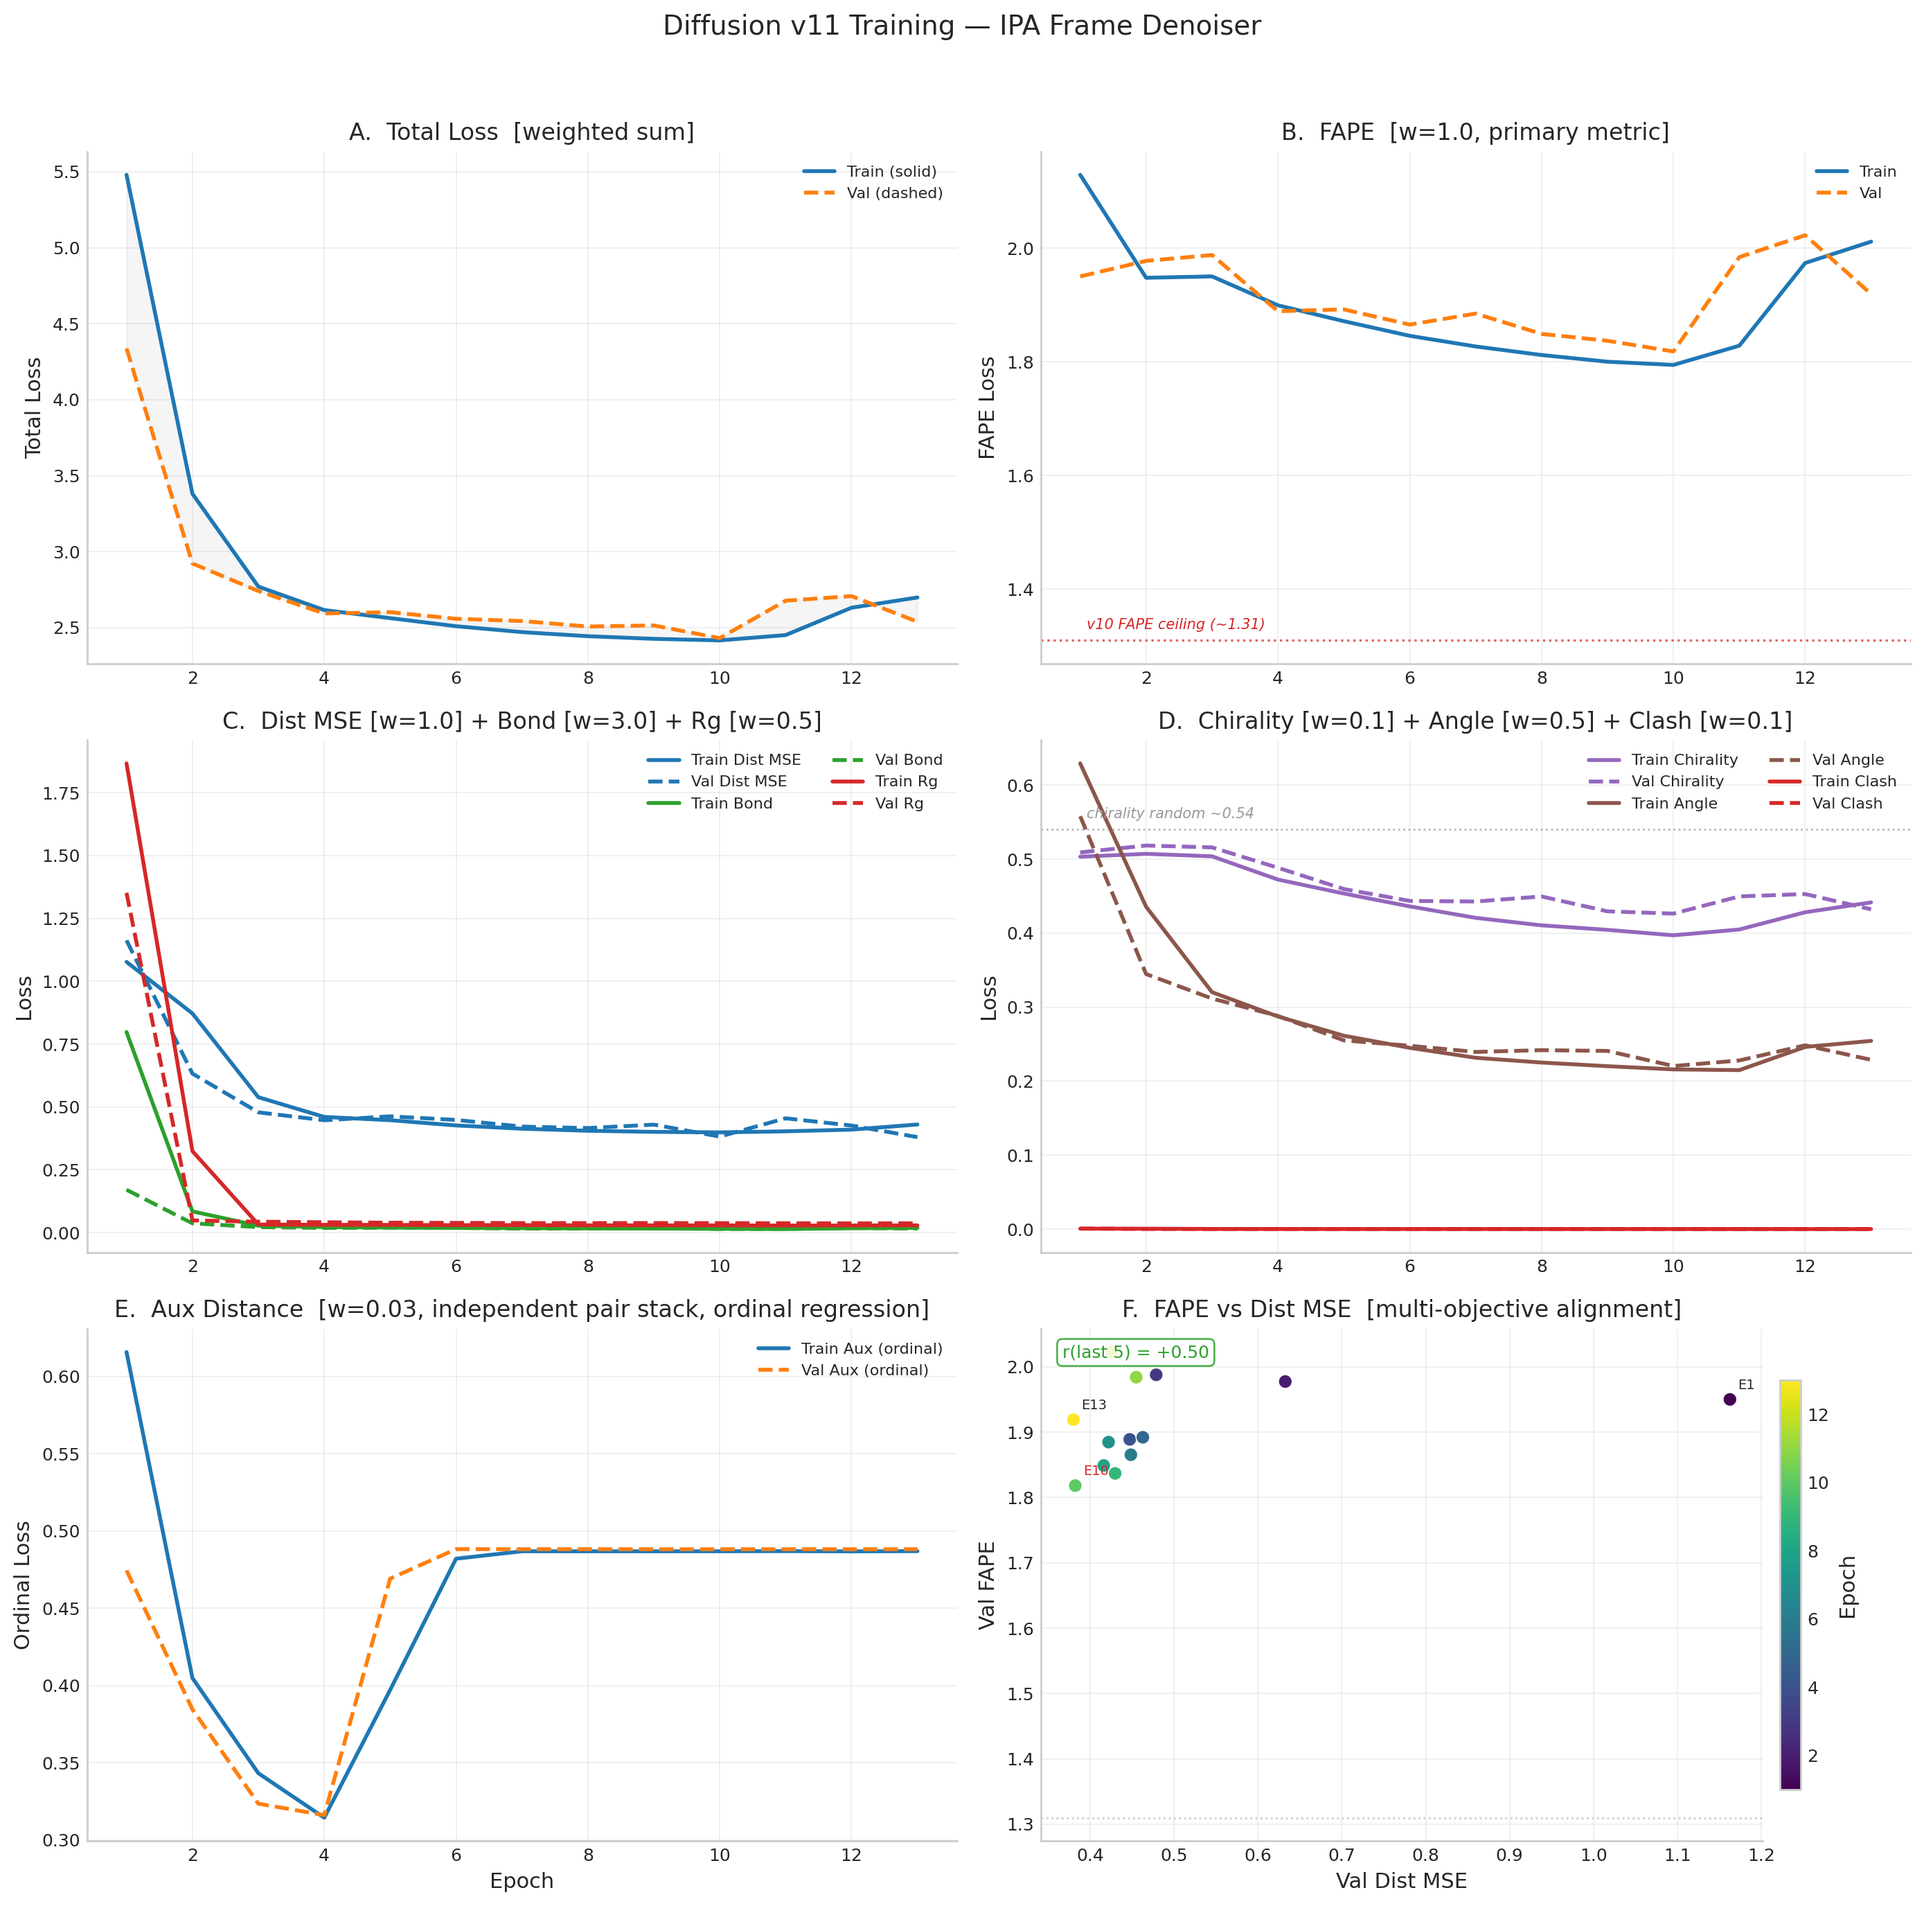
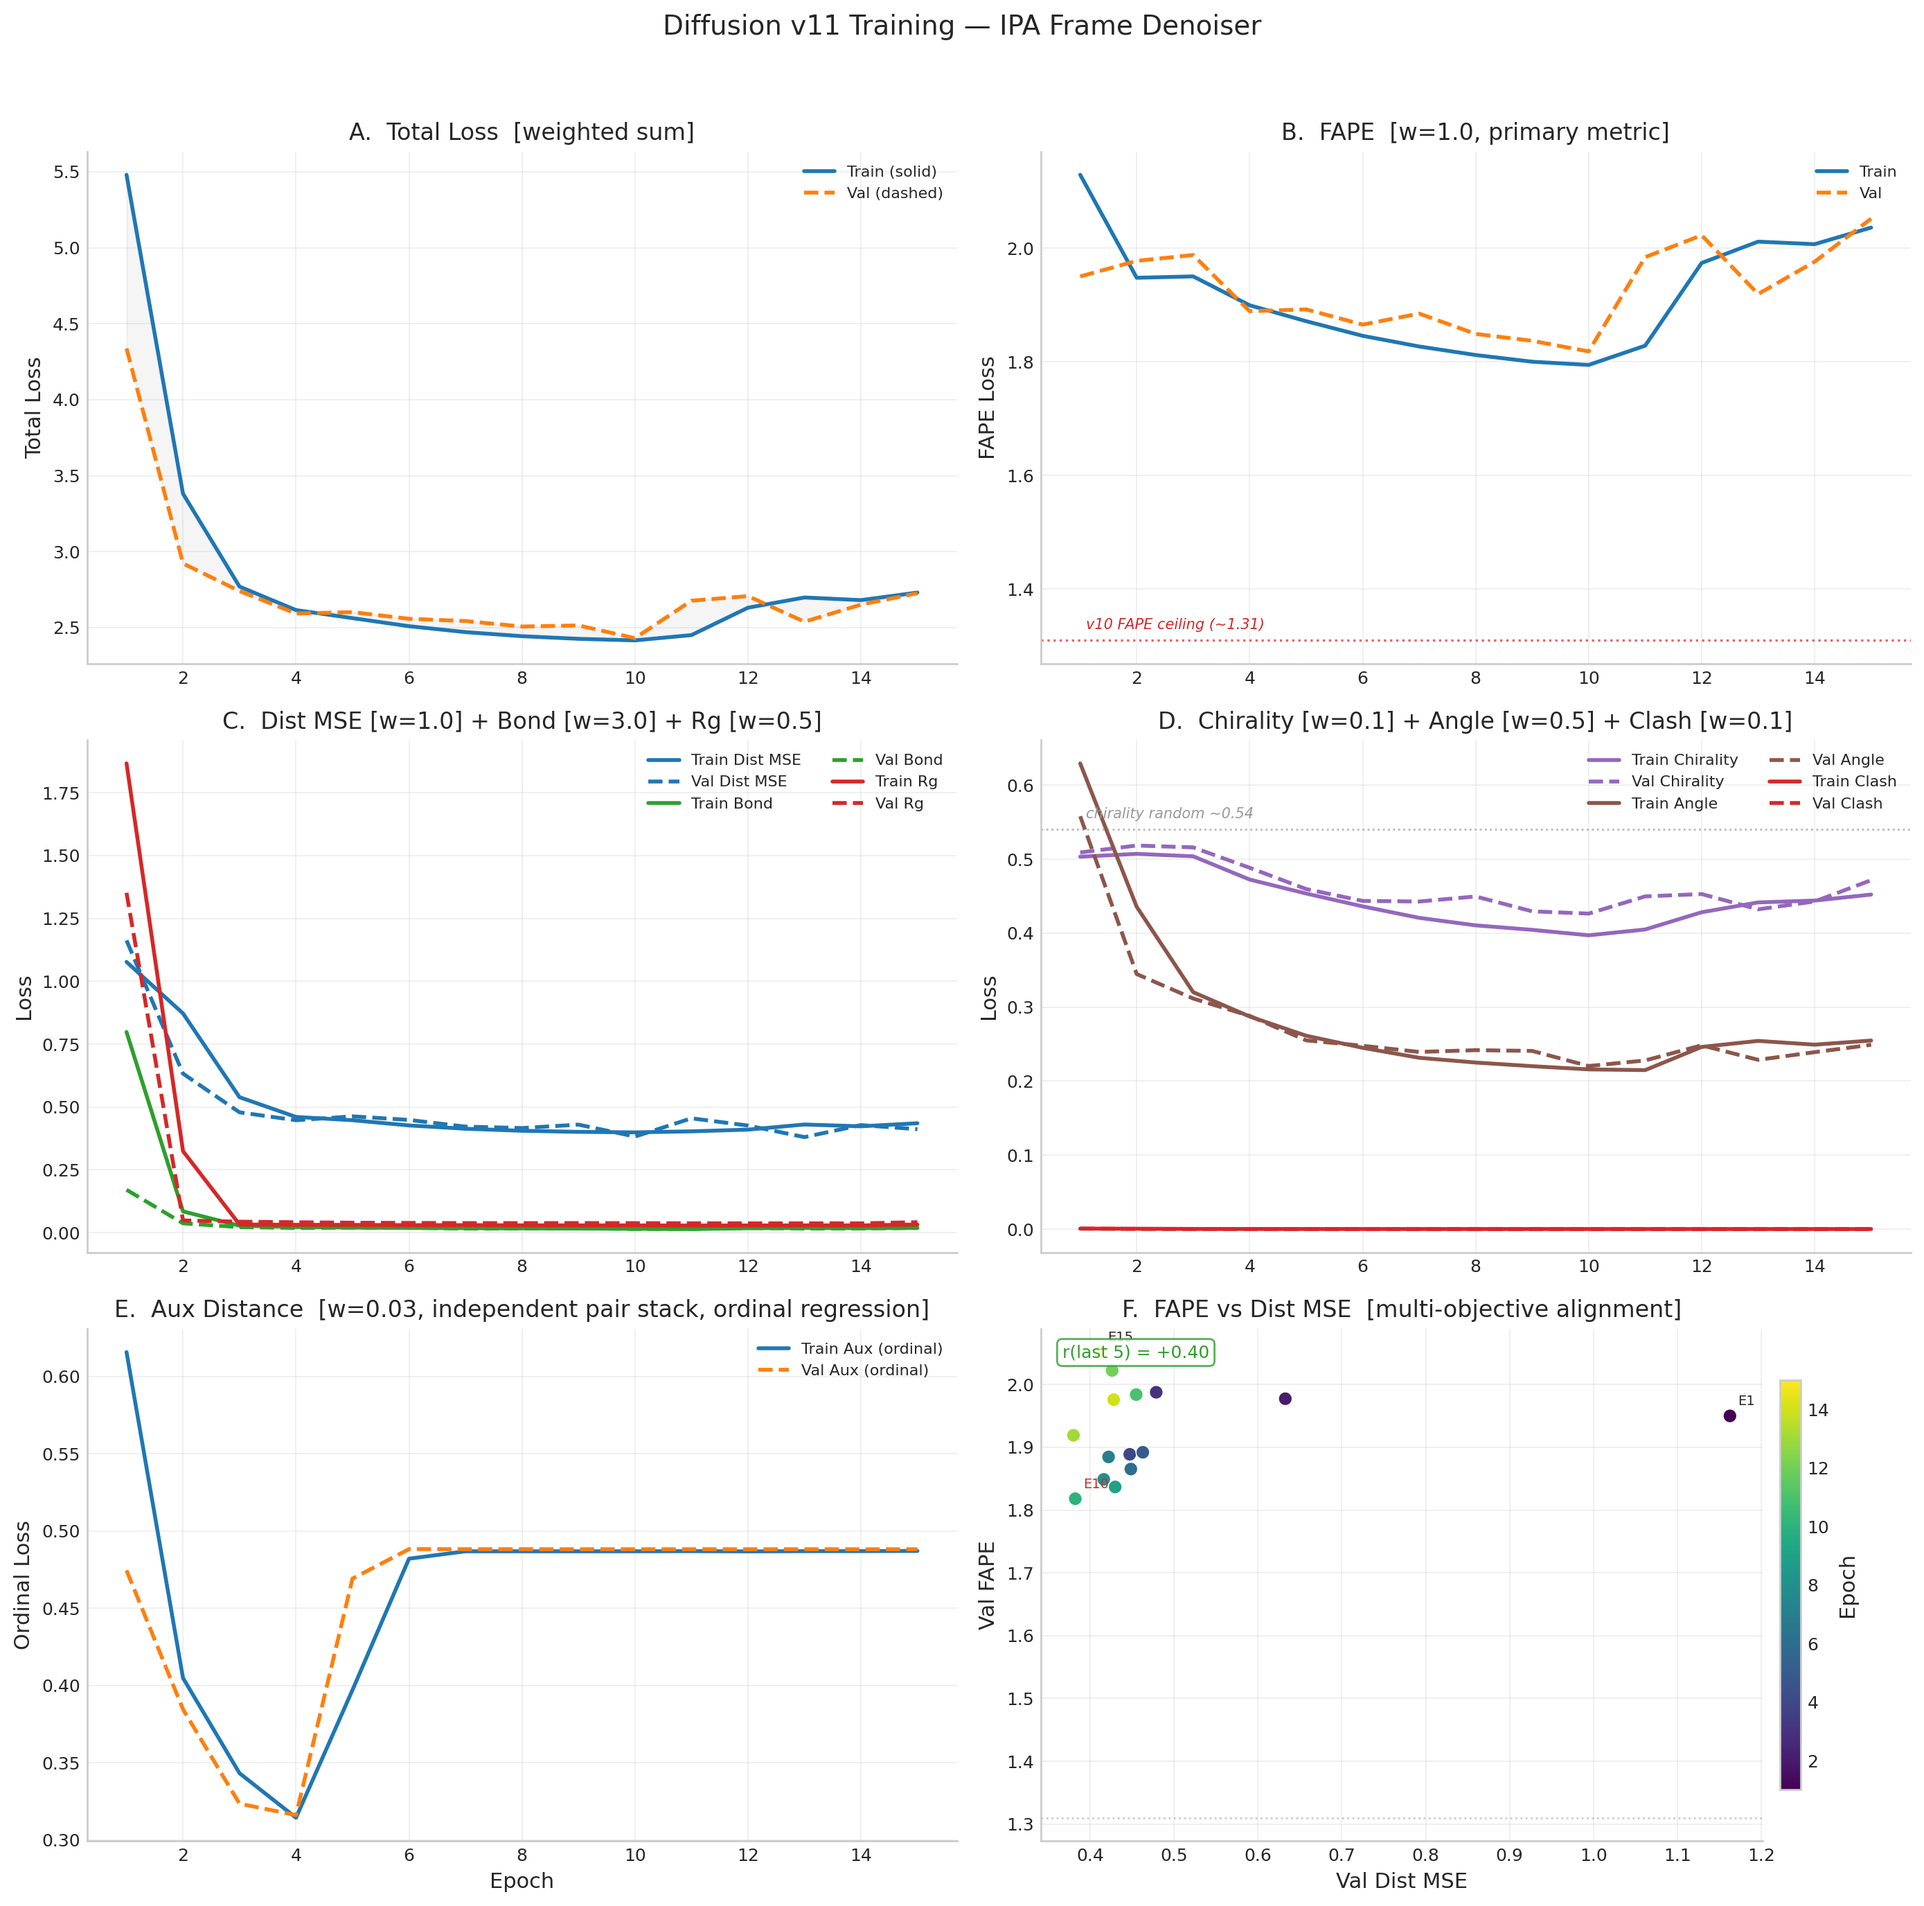
v11 E14-E15: FAPE 2.052 (worst), TM 0.046; architectural bug found — R discarded in output
Gradient diagnostic: frame_update gets large gradient (13.03 from FAPE alone)
but all gradient flows through translations only. Rotation quaternions in last
IPA layer receive zero gradient because learned R is discarded at line 729.
v11b fix: frame_rotation_loss + fape_loss_with_frames give R direct supervision.

diff --git a/index.html b/index.html
@@ -1405,7 +1405,31 @@
                 <td>23.97&Aring;</td>
                 <td><span class="tag tag-pat">pat 3</span></td>
               </tr>
-              <!-- New epochs will be added here by monitoring -->
+              <tr style="background: rgba(214, 39, 40, 0.08);">
+                <td>14</td>
+                <td>2.651</td>
+                <td>1.976</td>
+                <td>0.428</td>
+                <td>0.017</td>
+                <td>0.037</td>
+                <td>0.488</td>
+                <td>0.053</td>
+                <td>23.66&Aring;</td>
+                <td><span class="tag tag-pat">pat 4</span></td>
+              </tr>
+              <tr style="background: rgba(214, 39, 40, 0.12);">
+                <td>15</td>
+                <td>2.726</td>
+                <td style="color: #d62728; font-weight: bold;">2.052</td>
+                <td>0.411</td>
+                <td>0.019</td>
+                <td>0.042</td>
+                <td>0.488</td>
+                <td style="color: #d62728; font-weight: bold;">0.046</td>
+                <td>24.80&Aring;</td>
+                <td><span class="tag tag-pat">pat 5</span></td>
+              </tr>
+              <!-- v11 training stopped after E15 — architectural fix needed -->
             </tbody>
           </table>
         </div>
@@ -1502,38 +1526,52 @@
 
         <!-- Status / Live interpretation -->
         <div class="training-pending-note" id="v9-run2-status" style="border-left: 3px solid #d62728;">
-          <strong style="color: #d62728;">v11 Training STOPPED at Epoch 13 &mdash; Job Terminated, Awaiting Intervention</strong>
+          <strong style="color: #d62728;">v11 STOPPED at E15 &mdash; Architectural Bug Found, Fix Implemented</strong>
           <ul style="margin: 6px 0 6px 18px; font-size: 0.95em;">
-            <li><strong>Job status: TERMINATED</strong> &mdash; SLURM job hit 2-hour wall time after E13; auto-resubmit did not fire.
-                No new epochs since 06:26 UTC.</li>
-            <li><strong>DDIM: TM = 0.128 (E3) &rarr; 0.053 (E13)</strong> &mdash; generating worse-than-random structures.
-                RMSD = 23.97&Aring; (was 14.53 at E3).</li>
-            <li><strong>val FAPE: 1.818 (E10 best) &rarr; 1.919 (E13)</strong> &mdash; 5.6% above best.
-                Train FAPE: 2.011 (above E1 baseline of 2.129).</li>
-            <li><strong>val dist_mse: 0.380 (E13)</strong> &mdash; distance learning remains strong (near E10 best 0.382).</li>
-            <li><strong>Patience: 3/15</strong> &mdash; three consecutive non-best epochs.</li>
+            <li><strong>E15 val FAPE: 2.052</strong> &mdash; worst epoch, above E1 baseline (1.950). Tripwire violated at E5 (3% vs required 10%).</li>
+            <li><strong>DDIM: TM = 0.046</strong> &mdash; below random (~0.10). RMSD=24.80&Aring;. Generating atom clouds.</li>
+            <li><strong>Patience: 5/15.</strong> Training stopped (model code changed, resubmit crashed).</li>
           </ul>
-          <strong>5-Hour Post-Mortem:</strong>
+          <strong>Gradient Diagnostic Results:</strong>
           <p style="font-size: 0.92em; line-height: 1.55; margin: 6px 0;">
-            <strong>Summary:</strong> v11 IPA denoiser trained 13 epochs (~5 hours on A40). Phase 1 (E1&ndash;E3) showed
-            rapid distance/bond/Rg convergence. Phase 2 (E4&ndash;E10) achieved FAPE descent from 1.889 to 1.818 (6.8% below
-            initial). Phase 3 (E11&ndash;E13) saw frame instability: FAPE regressed while distances remained healthy.
-            DDIM generation collapsed to TM=0.053 (random ~0.10).
-            <br><br>
-            <strong>Core problem:</strong> The IPA frame update mechanism destabilized. Distance learning (pair-level) is robust,
-            but per-residue frame coherence broke down after E10. Self-conditioning likely amplified frame errors in a
-            positive feedback loop. The EMA model (used for DDIM) accumulated unstable frame updates.
-            <br><br>
-            <strong>Next steps (manual intervention required):</strong>
-            (1) Roll back to E10 checkpoint (best val=2.416, FAPE=1.818, DDIM TM~0.09).
-            (2) Reduce LR from 4.8e-5 to 2e-5.
-            (3) Clamp frame update magnitude per IPA layer.
-            (4) Reduce self-conditioning frequency from 50% to 25%.
-            (5) Resubmit with these changes.
+            Ran comprehensive gradient audit on E10 best weights. Key findings:
           </p>
+          <table style="font-size: 0.88em; width: 100%; border-collapse: collapse; margin: 8px 0;">
+            <tr style="background: var(--bg-secondary);">
+              <th style="text-align: left; padding: 4px 8px;">Hypothesis</th>
+              <th style="text-align: center; padding: 4px 8px;">Result</th>
+            </tr>
+            <tr><td style="padding: 4px 8px;">Frame confidence starving updates</td>
+                <td style="text-align: center; padding: 4px 8px; color: #2ca02c;">NO &mdash; 57.7% of timesteps have conf &gt; 0.5</td></tr>
+            <tr><td style="padding: 4px 8px;">Gradients dead at frame_update MLP</td>
+                <td style="text-align: center; padding: 4px 8px; color: #2ca02c;">NO &mdash; frame_update has <strong>highest</strong> grad norm (4.017)</td></tr>
+            <tr><td style="padding: 4px 8px;">FAPE gradient reaches frame_update</td>
+                <td style="text-align: center; padding: 4px 8px; color: #2ca02c;">YES &mdash; FAPE&rarr;frame_update: 13.03 (largest of all losses)</td></tr>
+            <tr><td style="padding: 4px 8px;">Learned rotations R used in output</td>
+                <td style="text-align: center; padding: 4px 8px; color: #d62728;"><strong>NO &mdash; R discarded at line 729</strong></td></tr>
+          </table>
+          <p style="font-size: 0.92em; line-height: 1.55; margin: 8px 0;">
+            <strong>Root cause:</strong> The denoiser outputs <code>x0_pred = t_vec</code> (translations only). The learned frame
+            rotations R from 6 IPA layers are <strong>discarded</strong>. FAPE loss rebuilds frames from output coordinates via
+            Gram-Schmidt, so all FAPE gradient flows through the <strong>translation</strong> path. The rotation quaternion outputs
+            in the last IPA layer receive <strong>zero gradient</strong> (R is never used after the last layer). Earlier layers get
+            weak, second-order rotation gradient through IPA point attention.
+            <br><br>
+            The model learns translations well (dist_mse &darr;60%) but rotations are unsupervised.
+            IPA runs as a fancy EGNN &mdash; exactly the same failure mode as v10.
+          </p>
+          <strong>v11b Fix (implemented, ready to submit):</strong>
+          <ol style="font-size: 0.92em; margin: 6px 0 6px 18px; line-height: 1.55;">
+            <li><strong>frame_rotation_loss</strong> (w=0.5): Direct angular distance between learned R and Gram-Schmidt
+                ground truth. Gives rotation path first-order gradient signal.</li>
+            <li><strong>fape_loss_with_frames</strong>: FAPE computed using learned R_pred instead of rebuilding from coords.
+                FAPE gradients now flow through both rotation AND translation paths.</li>
+            <li><strong>Denoiser returns (x0_pred, R)</strong>: Learned rotations are no longer discarded.</li>
+            <li>LR = 2e-5 (halved), SC = 0.25 (halved). Rollback to E10 best weights.</li>
+          </ol>
         </div>
         <div style="color: var(--text-secondary); font-size: 0.85em; margin-top: 8px;" id="v9-last-updated">
-          Last updated: 2026-03-09 14:32 UTC
+          Last updated: 2026-03-09 15:30 UTC &mdash; v11 stopped, v11b fix ready
         </div>
 
         <!-- v10 Historical Results (collapsed) -->
